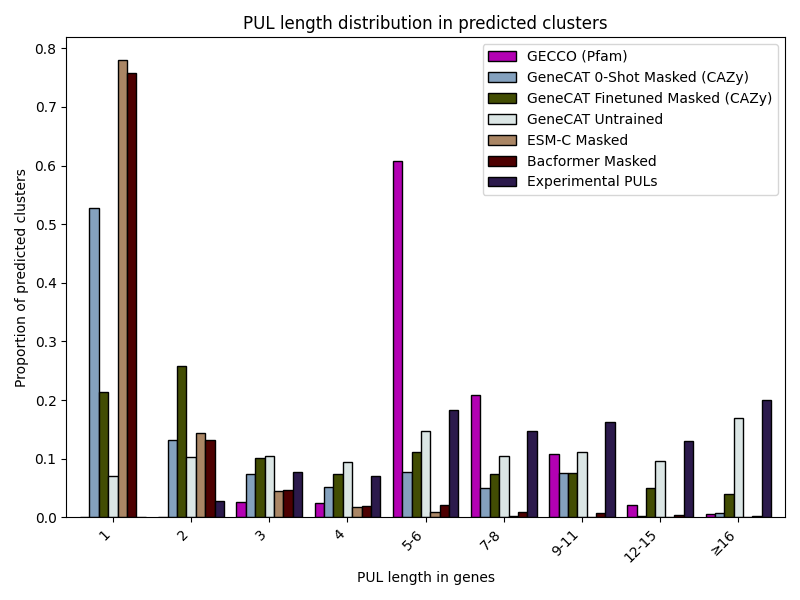
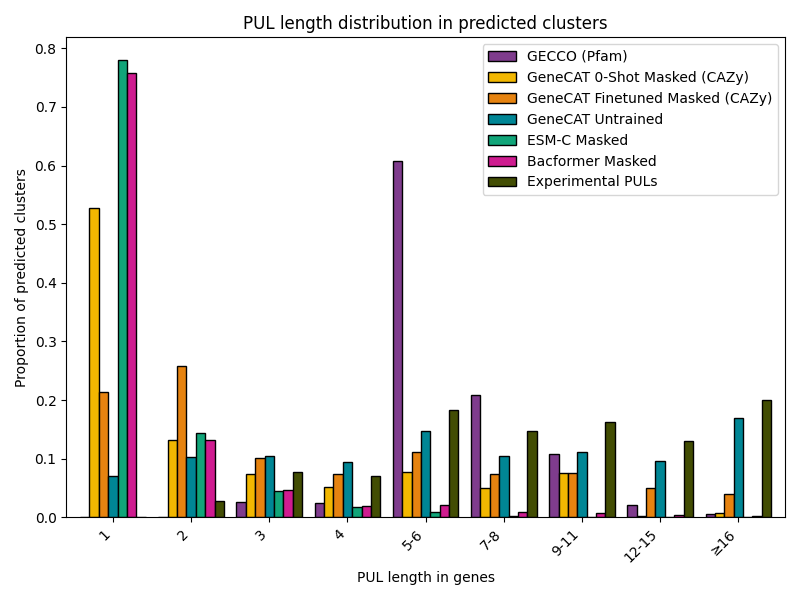
improve plots

Changed region(s): [[0.0938, 0.09, 0.875, 0.87], [0.5938, 0.09, 0.6562, 0.33], [0.9062, 0.66, 0.9688, 0.87]]

diff --git a/src/scripts/visualization/dataset_construction.py b/src/scripts/visualization/dataset_construction.py
@@ -4,36 +4,36 @@ from matplotlib_venn import venn3, venn2
 import seaborn as sns
 from cryptic_puls_plots import join_gene_and_PUL_table
 import numpy as np
-from visualization_utilities import get_bins
+from visualization_utilities import get_bins, get_pul_lengths
 from viz_data import model_colors, Cork_7, Bold_10, Bilbao_5, Buda_4
 
 
 # KDE PUL LENGTHS PLOT #
-def get_pul_lengths(puls_table):
-    return puls_table.with_columns(abs(polars.col("end") - polars.col("start")).alias("pul_length"))
+# def get_pul_lengths(puls_table):
+#     return puls_table.with_columns(abs(polars.col("end") - polars.col("start")).alias("pul_length"))
 
-def plot_length_distributions(ax, experimental_puls, cblaster_results_liberal, cblaster_results_strict, pulpy):
-    experimental = get_pul_lengths(experimental_puls)
-    cblaster_liberal_puls = get_pul_lengths(cblaster_results_liberal)
-    cblaster_strict_puls = get_pul_lengths(cblaster_results_strict)
-    pulpy_puls = get_pul_lengths(pulpy)
+# def plot_length_distributions(ax, experimental_puls, cblaster_results_liberal, cblaster_results_strict, pulpy):
+#     experimental = get_pul_lengths(experimental_puls)
+#     cblaster_liberal_puls = get_pul_lengths(cblaster_results_liberal)
+#     cblaster_strict_puls = get_pul_lengths(cblaster_results_strict)
+#     pulpy_puls = get_pul_lengths(pulpy)
 
-    # Extract series
-    exp_lengths = experimental.select("pul_length").to_series()
-    lib_lengths = cblaster_liberal_puls.select("pul_length").to_series()
-    strict_lengths = cblaster_strict_puls.select("pul_length").to_series()
-    pulpy_lengths = pulpy_puls.select("pul_length").to_series()
+#     # Extract series
+#     exp_lengths = experimental.select("pul_length").to_series()
+#     lib_lengths = cblaster_liberal_puls.select("pul_length").to_series()
+#     strict_lengths = cblaster_strict_puls.select("pul_length").to_series()
+#     pulpy_lengths = pulpy_puls.select("pul_length").to_series()
 
-    # KDE plots
-    sns.kdeplot(exp_lengths, ax=ax, label="Experimental", clip=(0, 100000))
-    sns.kdeplot(lib_lengths, ax=ax, label="Liberal Cblaster", clip=(0, 100000))
-    sns.kdeplot(strict_lengths, ax=ax, label="Strict Cblaster", clip=(0, 100000))
-    sns.kdeplot(pulpy_lengths, ax=ax, label="PULpy", clip=(0, 100000))
+#     # KDE plots
+#     sns.kdeplot(exp_lengths, ax=ax, label="Experimental", clip=(0, 100000))
+#     sns.kdeplot(lib_lengths, ax=ax, label="Liberal Cblaster", clip=(0, 100000))
+#     sns.kdeplot(strict_lengths, ax=ax, label="Strict Cblaster", clip=(0, 100000))
+#     sns.kdeplot(pulpy_lengths, ax=ax, label="PULpy", clip=(0, 100000))
 
-    ax.set_title("PUL length distributions (KDE)")
-    ax.set_xlabel("PUL length (bp)")
-    ax.set_ylabel("Density")
-    ax.legend()
+#     ax.set_title("PUL length distributions (KDE)")
+#     ax.set_xlabel("PUL length (bp)")
+#     ax.set_ylabel("Density")
+#     ax.legend()
 
 
 # TAXONOMY PLOT #
@@ -76,19 +76,15 @@ def plot_taxonomy(ax, all_puls):
 
 
 # GENE COUNT PLOT #
-def get_n_genes(genes, labeled_table):
-    print(labeled_table.with_columns((polars.col("end")-polars.col("start")).alias("PUL_length")).sort(by="PUL_length").select("cluster_id", "sequence_id", "species", "PUL_length"))
-    labeled_table = join_gene_and_PUL_table(gene_table=genes, cluster_table=labeled_table, buffer=0)
-    labeled_table = labeled_table.group_by("cluster_id").agg(polars.col("is_PUL").sum().alias("n_genes")).sort("n_genes", descending=False).filter(polars.col("cluster_id").is_not_null())
-    return labeled_table
-
 def plot_pul_gene_count(ax, genes, labeled_table):
     bins_num = 15
-    labeled_table = get_n_genes(genes, labeled_table)
+    labeled_table = get_pul_lengths(labeled_table, genes)
     bins, labels = get_bins(bins_num)
+    print(f"median PUL length: {labeled_table["pul_length"].median()}")
+    print(f"mean PUL length: {labeled_table["pul_length"].mean()}")
 
     binned = labeled_table.with_columns(
-        polars.col("n_genes")
+        polars.col("pul_length")
         .cut(breaks=bins.tolist(), include_breaks=False, labels=labels)
         .alias("gene_bin")
     )
@@ -107,6 +103,7 @@ def plot_pul_gene_count(ax, genes, labeled_table):
     ax.grid(axis="y", linestyle="--", alpha=0.7)
     ax.bar(x, y, edgecolor=Cork_7[2], width=1.0, align="center", color=Cork_7[0])
     ax.set_xticks(x)
+    labels[0] = "1"
     ax.set_xticklabels(labels, rotation=45, ha="right")
     ax.margins(x=0.02)
     ax.set_xlabel("PUL length in genes")

diff --git a/src/scripts/visualization/evaluate_predictions.py b/src/scripts/visualization/evaluate_predictions.py
@@ -127,7 +127,7 @@ def barplot_pul_length(all_models, model_names_dict=model_names):
         idx = all_models.index(model_name)
         # center grouped bars: compute offset so bars for each model are centered around each xtick
         offset = (idx - (n_models - 1) / 2) * width
-        ax.bar(x + offset, y, edgecolor="black", width=width, align="center", label=model_names_dict.get(model_name), color=model_colors.get(model_name))
+        ax.bar(x + offset, y, edgecolor="black", width=width, align="center", label=model_names_dict.get(model_name), color=model_colors_selected.get(model_name))
 
     ax.set_xticks(x)
     labels[0] = "1"

diff --git a/src/scripts/visualization/visualization_utilities.py b/src/scripts/visualization/visualization_utilities.py
@@ -24,7 +24,6 @@ def get_pul_lengths(puls_table, genes):
     )
 
 
-
 def get_bins(bin_num, start=0, stop=50):
     start = 0
     bins = np.unique(
